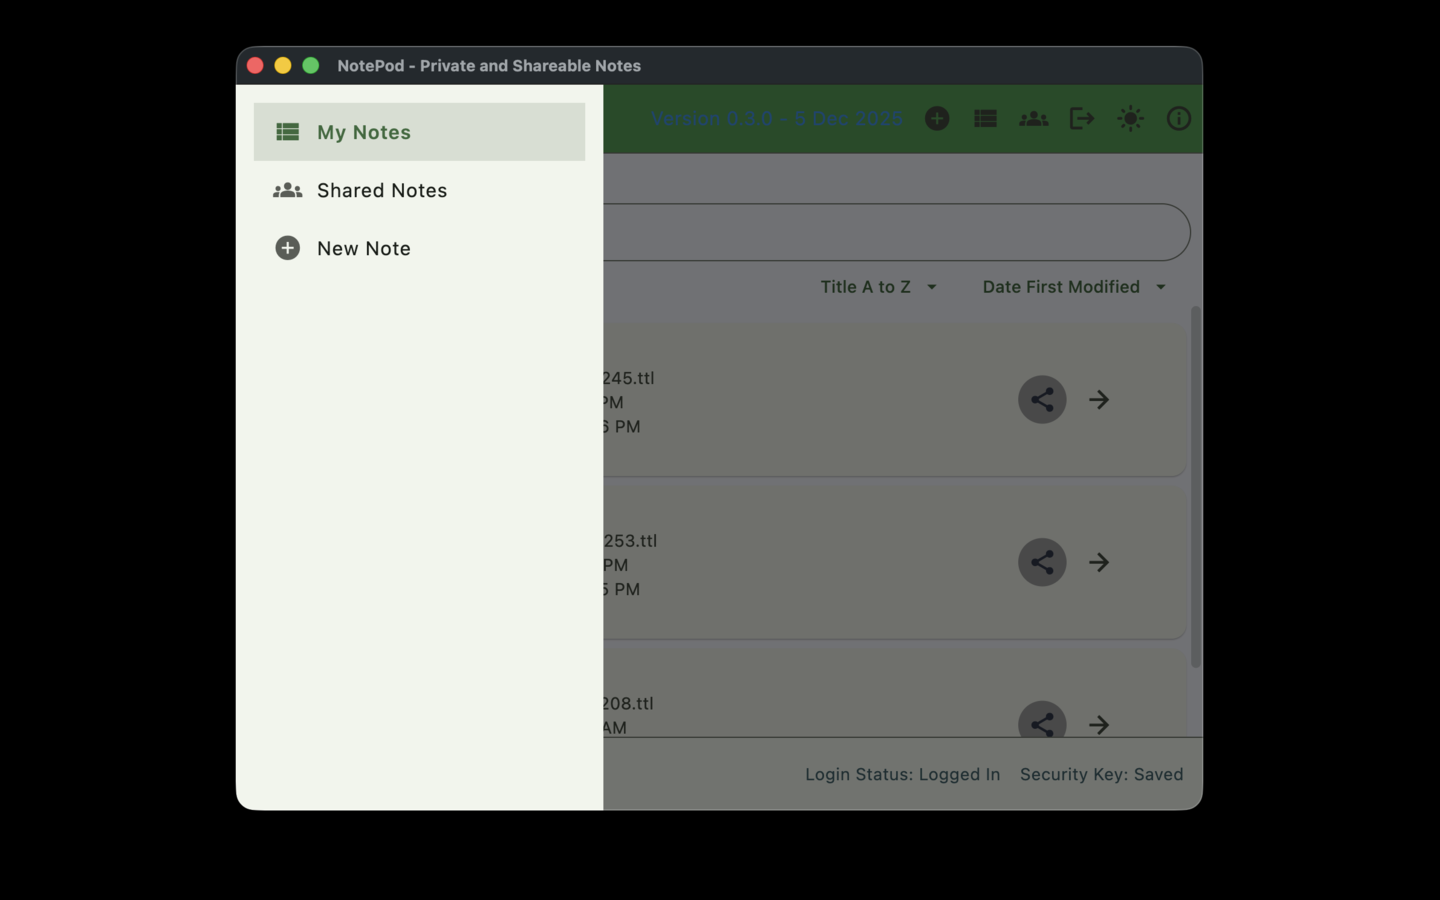
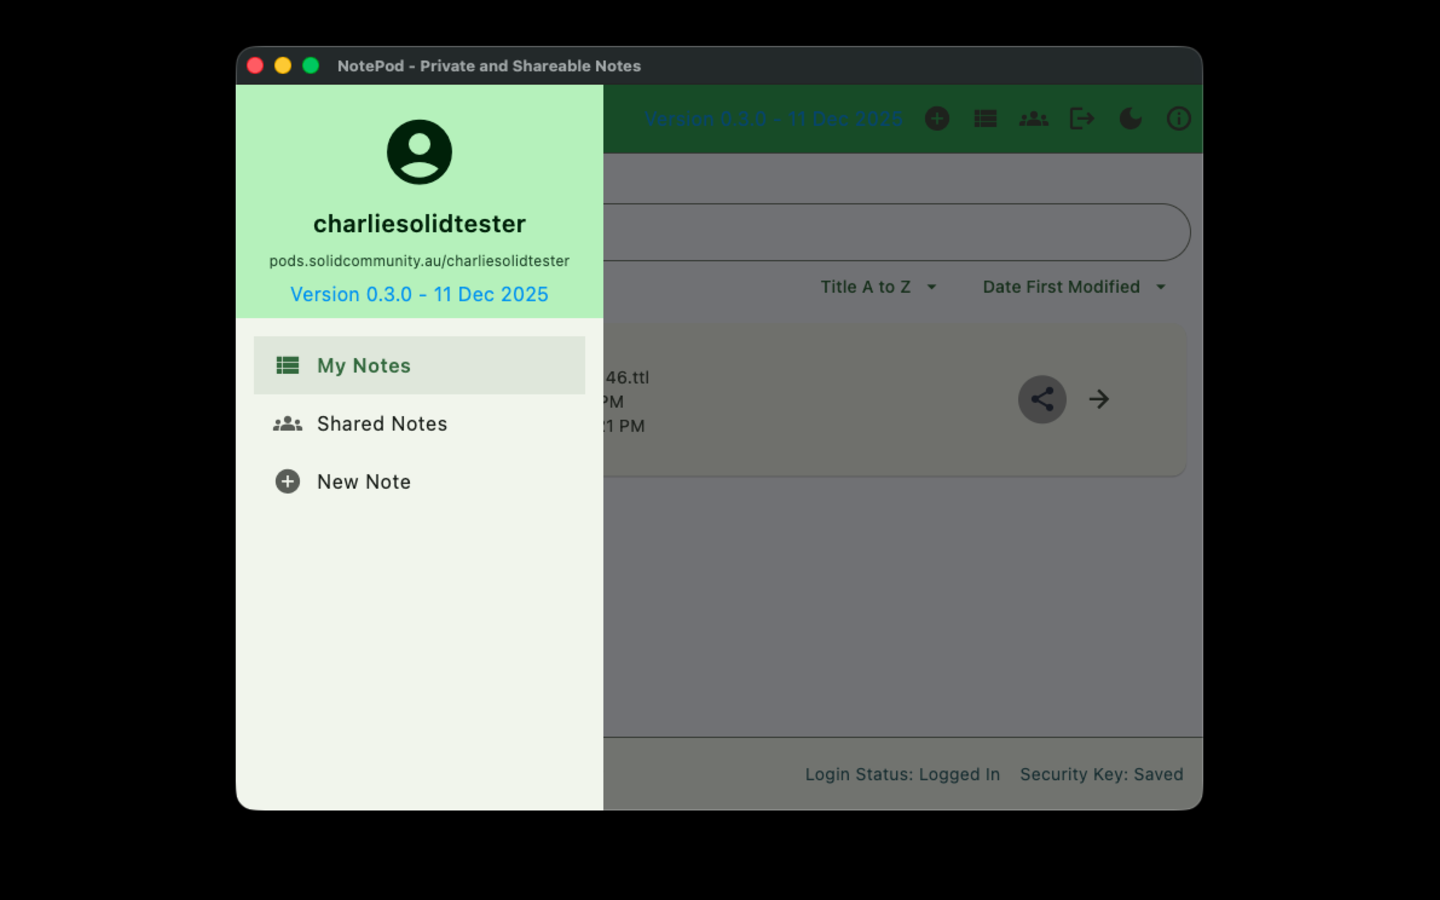
updated screenshots with generic user webid

diff --git a/release/screenshots/macos/version.md b/release/screenshots/macos/version.md
@@ -1,2 +1,2 @@
 <!-- markdownlint-disable MD041 -->
-Notepod version 0.3.0+18
+Notepod version 0.3.0
